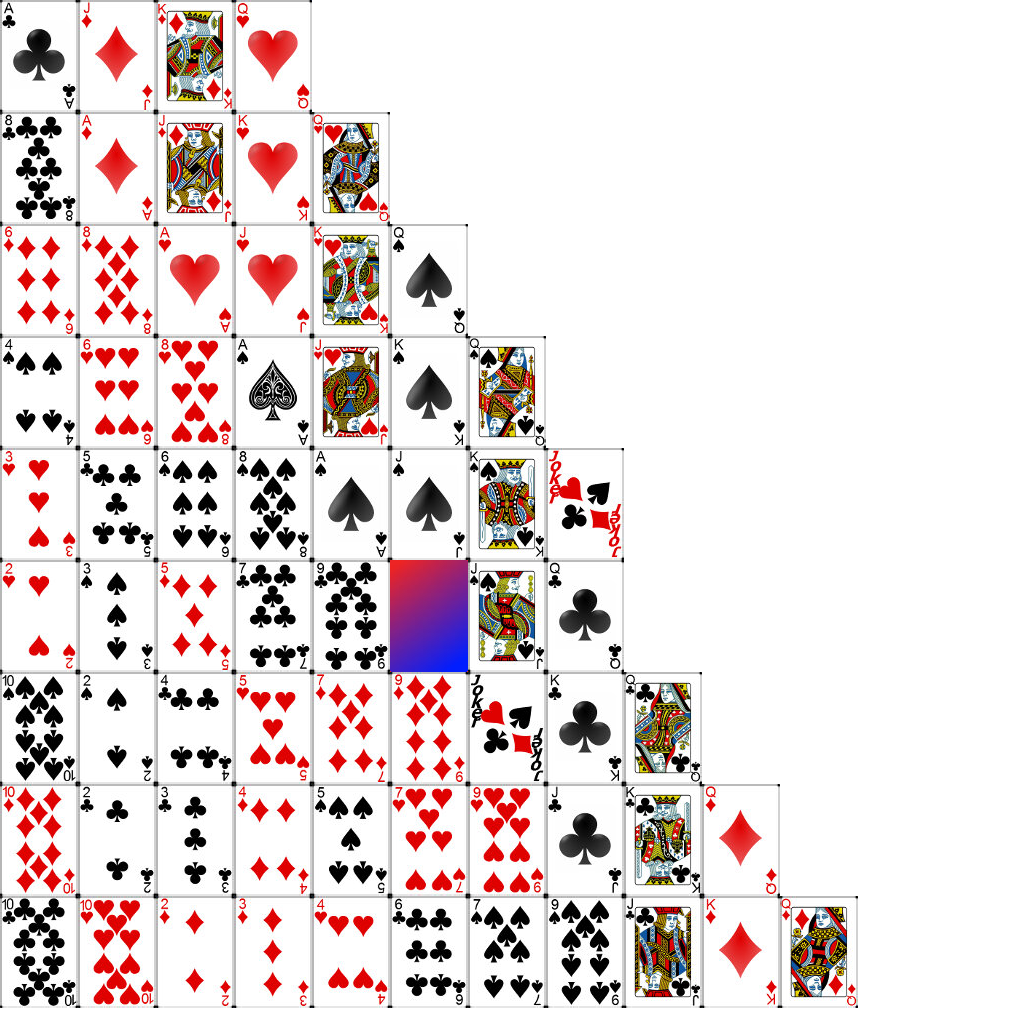
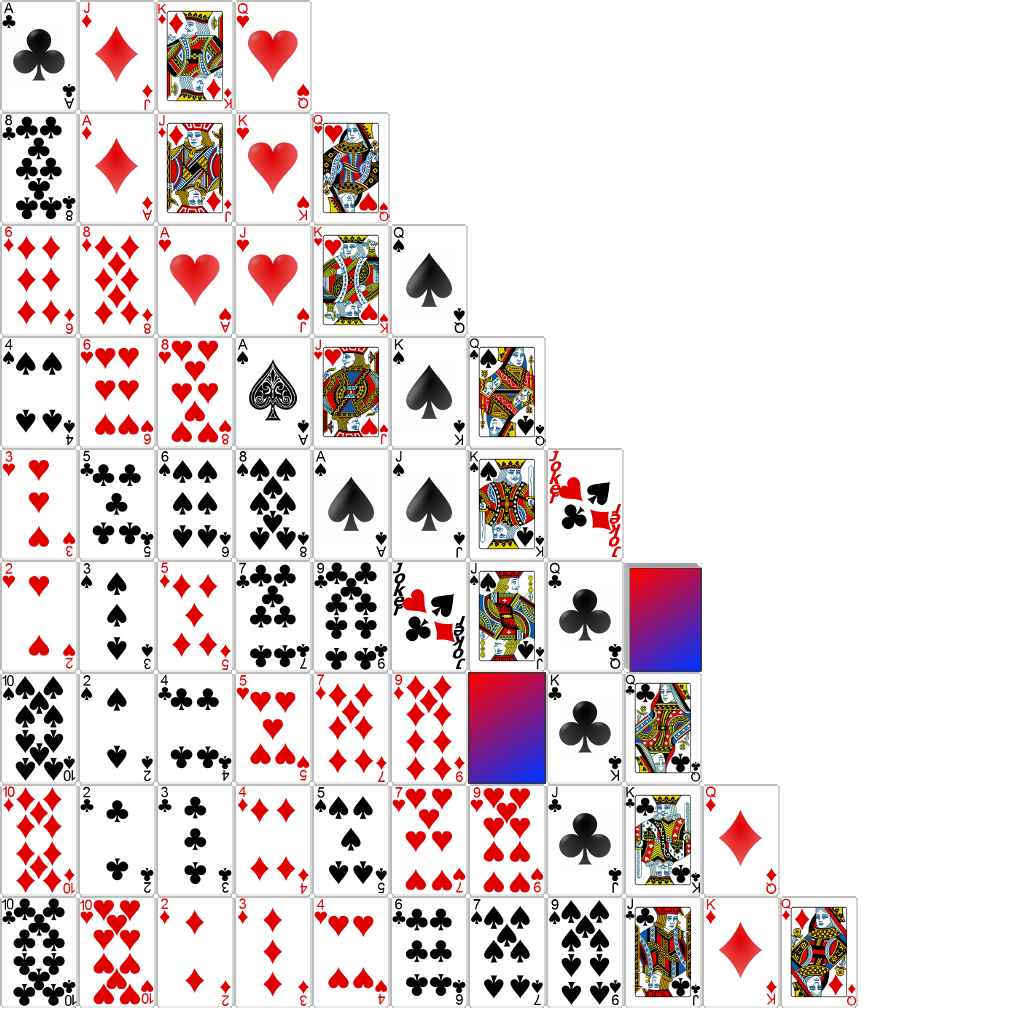
Working on DeckView

diff --git a/core/src/com/kegelapps/palace/graphics/CardUtils.java b/core/src/com/kegelapps/palace/graphics/CardUtils.java
@@ -1,7 +1,9 @@
 package com.kegelapps.palace.graphics;
 
 import com.badlogic.gdx.graphics.Texture;
+import com.badlogic.gdx.graphics.g2d.TextureAtlas;
 import com.badlogic.gdx.graphics.g2d.TextureRegion;
+import com.kegelapps.palace.Card;
 
 /**
  * Created by keg45397 on 12/8/2015.
@@ -9,7 +11,8 @@ import com.badlogic.gdx.graphics.g2d.TextureRegion;
 public class CardUtils {
     static private int cardWidth = 750;
     static private int cardHeight = 1089;
-    static private TextureRegion[][] mRegions;
+    static private TextureAtlas mCardAtlas;
+    static private TextureAtlas.AtlasRegion mCardBack = null;
 
     public enum CardSize {
         TINY,
@@ -18,33 +21,34 @@ public class CardUtils {
         LARGE
     }
 
-    static private Texture mCards;
-
     static public void loadCards(CardSize size) {
         String file;
         switch (size) {
-            case TINY: file = "cards_tiny.jpg"; cardWidth = 75; cardHeight = 109; break;
-            default: file = "cards_large.jpg"; cardWidth = 750; cardHeight = 1089; break;
+            case TINY: file = "cards_tiny.pack"; cardWidth = 75; cardHeight = 109; break;
+            default: file = "cards_large.png"; cardWidth = 750; cardHeight = 1089; break;
         }
-        mCards = new Texture(file);
-        mRegions = TextureRegion.split(mCards, cardWidth, cardHeight );
+
+        mCardAtlas = new TextureAtlas(file);
     }
 
-    static public Texture getTexture() {
-        return mCards;
+    static public TextureAtlas.AtlasRegion getCardRegion(Card.Suit suit, Card.Rank rank) {
+        String s = (Card.getRankString(rank)+"_of_"+Card.getSuitString(suit)+"s").toLowerCase();
+        if ( rank == Card.Rank.JACK || rank == Card.Rank.QUEEN ||
+             rank == Card.Rank.KING)
+            s = s+"2";
+        return mCardAtlas.findRegion(s);
     }
 
-    static public TextureRegion getCardTexture(int index) {
-        if (mRegions == null)
-            mRegions = TextureRegion.split(mCards, cardWidth, cardHeight );
-        return mRegions[0][1];
+    static public TextureAtlas.AtlasRegion getCardBackRegion() {
+        if (mCardBack == null)
+            mCardBack = mCardAtlas.findRegion("card_back");
+        return mCardBack;
     }
 
-    static public TextureRegion getCardBackTexture() {
-        if (mRegions == null)
-            mRegions = TextureRegion.split(mCards, cardWidth, cardHeight );
-        return mRegions[0][0];
+    public static TextureAtlas.AtlasRegion getCardBackDeckRegion() {
+        return mCardAtlas.findRegion("back_deck");
     }
+
 
     static public int getCardTextureWidth() {
         return cardWidth;

diff --git a/core/src/com/kegelapps/palace/graphics/DeckView.java b/core/src/com/kegelapps/palace/graphics/DeckView.java
@@ -1,6 +1,8 @@
 package com.kegelapps.palace.graphics;
 
+import com.badlogic.gdx.graphics.g2d.Batch;
 import com.badlogic.gdx.graphics.g2d.Sprite;
+import com.badlogic.gdx.graphics.g2d.TextureAtlas;
 import com.badlogic.gdx.utils.Array;
 import com.kegelapps.palace.Card;
 import com.kegelapps.palace.Deck;
@@ -14,23 +16,39 @@ public class DeckView extends Sprite {
 
     private Array<CardView> mCardViewList;
 
+    private TextureAtlas.AtlasRegion mDeckBack;
+
     public DeckView() {
         super();
         mDeck = new Deck();
-        mCardViewList = new Array<>();
-        for (Card c : mDeck.GetCards()) {
-            mCardViewList.add(new CardView(c));
-        }
+        init();
     }
+
 
     public DeckView(Deck deck) {
         super();
         assert (deck == null);
         mDeck = deck;
+        init();
+    }
+
+    private void init() {
         mCardViewList = new Array<>();
         for (Card c : mDeck.GetCards()) {
             mCardViewList.add(new CardView(c));
         }
+        mDeckBack = CardUtils.getCardBackDeckRegion();
+        setSize(mDeckBack.originalWidth, mDeckBack.originalHeight);
     }
 
+    @Override
+    public void draw(Batch batch) {
+        if ( mDeck.CountCards() > 4 ) { //lets draw the stack of cards
+            setRegion(mDeckBack);
+        }
+        else if (mDeck.CountCards() <= 4) { //we will draw cascaded cards?
+            setTexture(null);
+        }
+        super.draw(batch);
+    }
 }

diff --git a/core/src/com/kegelapps/palace/Card.java b/core/src/com/kegelapps/palace/Card.java
@@ -34,14 +34,19 @@ public class Card implements Comparable<Card> {
         return mRank;
     }
 
-    public String getSuitString() {
-        switch (mSuit) {
+    static public String getSuitString(Card.Suit suit) {
+        switch (suit) {
             case HEART: return "Heart";
             case DIAMOND: return "Diamond";
             case SPADE: return "Spade";
             default:
             case CLUB: return "Club";
         }
+    }
+
+
+    public String getSuitString() {
+        return getSuitString(mSuit);
     }
 
     private int getValue() {
@@ -63,8 +68,8 @@ public class Card implements Comparable<Card> {
         }
     }
 
-    public String getRankString() {
-        switch (mRank) {
+    static public String getRankString(Card.Rank rank) {
+        switch (rank) {
             case TWO: return "2";
             case THREE: return "3";
             case FOUR: return "4";
@@ -80,6 +85,11 @@ public class Card implements Comparable<Card> {
             default:
             case ACE: return "Ace";
         }
+    }
+
+
+    public String getRankString() {
+        return getRankString(mRank);
     }
 
     @Override

diff --git a/core/src/com/kegelapps/palace/Palace.java b/core/src/com/kegelapps/palace/Palace.java
@@ -8,13 +8,14 @@ import com.badlogic.gdx.graphics.Texture;
 import com.badlogic.gdx.graphics.g2d.SpriteBatch;
 import com.kegelapps.palace.graphics.CardUtils;
 import com.kegelapps.palace.graphics.CardView;
+import com.kegelapps.palace.graphics.DeckView;
 
 public class Palace extends ApplicationAdapter {
 	private OrthographicCamera mCamera;
 	SpriteBatch batch;
 	Texture img;
 	Logic logic;
-	CardView card;
+	DeckView deck;
 
 	@Override
 	public void create () {
@@ -24,7 +25,7 @@ public class Palace extends ApplicationAdapter {
 		img = new Texture("cards_tiny.jpg");
 		CardUtils.loadCards(CardUtils.CardSize.TINY);
         logic = new Logic();
-		card = new CardView(logic.getTable().getDeck().GetCards().get(0));
+		deck = new DeckView();
         Gdx.input.setInputProcessor(Input.get());
 	}
 
@@ -38,7 +39,7 @@ public class Palace extends ApplicationAdapter {
 		batch.setProjectionMatrix(mCamera.combined);
 		batch.begin();
 		//batch.draw(CardUtils.getCardTexture(0), 0, 0);
-		card.draw(batch);
+		deck.draw(batch);
 		batch.end();
 	}
 }

diff --git a/core/src/com/kegelapps/palace/graphics/CardView.java b/core/src/com/kegelapps/palace/graphics/CardView.java
@@ -1,6 +1,7 @@
 package com.kegelapps.palace.graphics;
 
 import com.badlogic.gdx.graphics.g2d.Sprite;
+import com.badlogic.gdx.graphics.g2d.TextureAtlas;
 import com.badlogic.gdx.graphics.g2d.TextureRegion;
 import com.kegelapps.palace.Card;
 
@@ -11,6 +12,7 @@ public class CardView extends Sprite{
 
     private Card mCard;
     private Side mSide;
+    private TextureAtlas.AtlasRegion mCardRegion;
 
     enum Side {
         FRONT,
@@ -31,8 +33,9 @@ public class CardView extends Sprite{
     }
 
     private void init() {
-        setSize(CardUtils.getCardTextureWidth(), CardUtils.getCardTextureHeight());
-        setRegion(CardUtils.getCardTexture(0));
+        mCardRegion = CardUtils.getCardRegion(mCard.getSuit(), mCard.getRank());
+        setRegion(mCardRegion);
+        setSize(mCardRegion.originalWidth, mCardRegion.originalHeight);
         mSide = Side.FRONT;
     }
 

diff --git a/core/src/com/kegelapps/palace/Deck.java b/core/src/com/kegelapps/palace/Deck.java
@@ -48,4 +48,8 @@ public class Deck {
     public List<Card> GetCards() {
         return mCards;
     }
+
+    public int CountCards() {
+        return mCards.size();
+    }
 }
